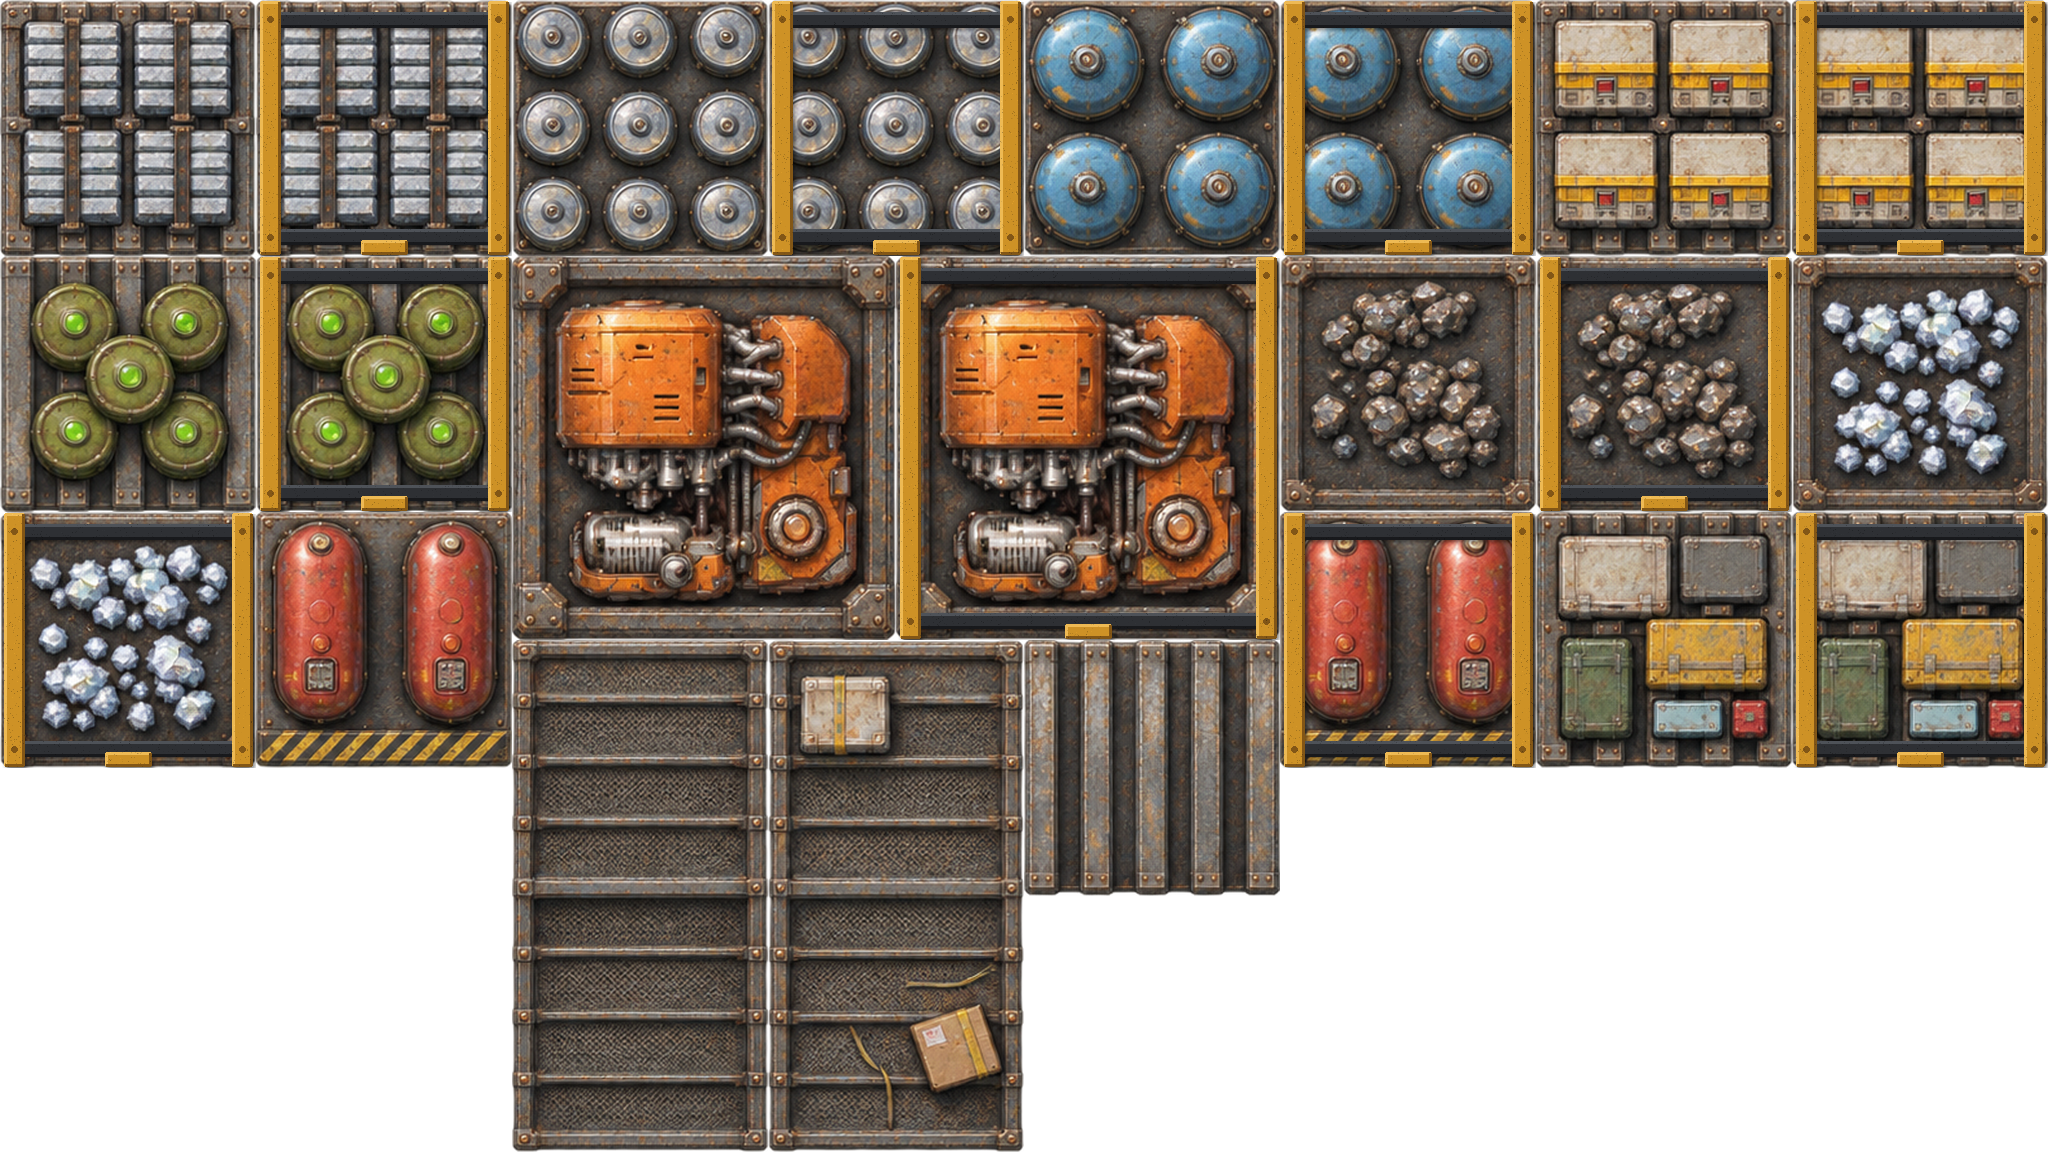
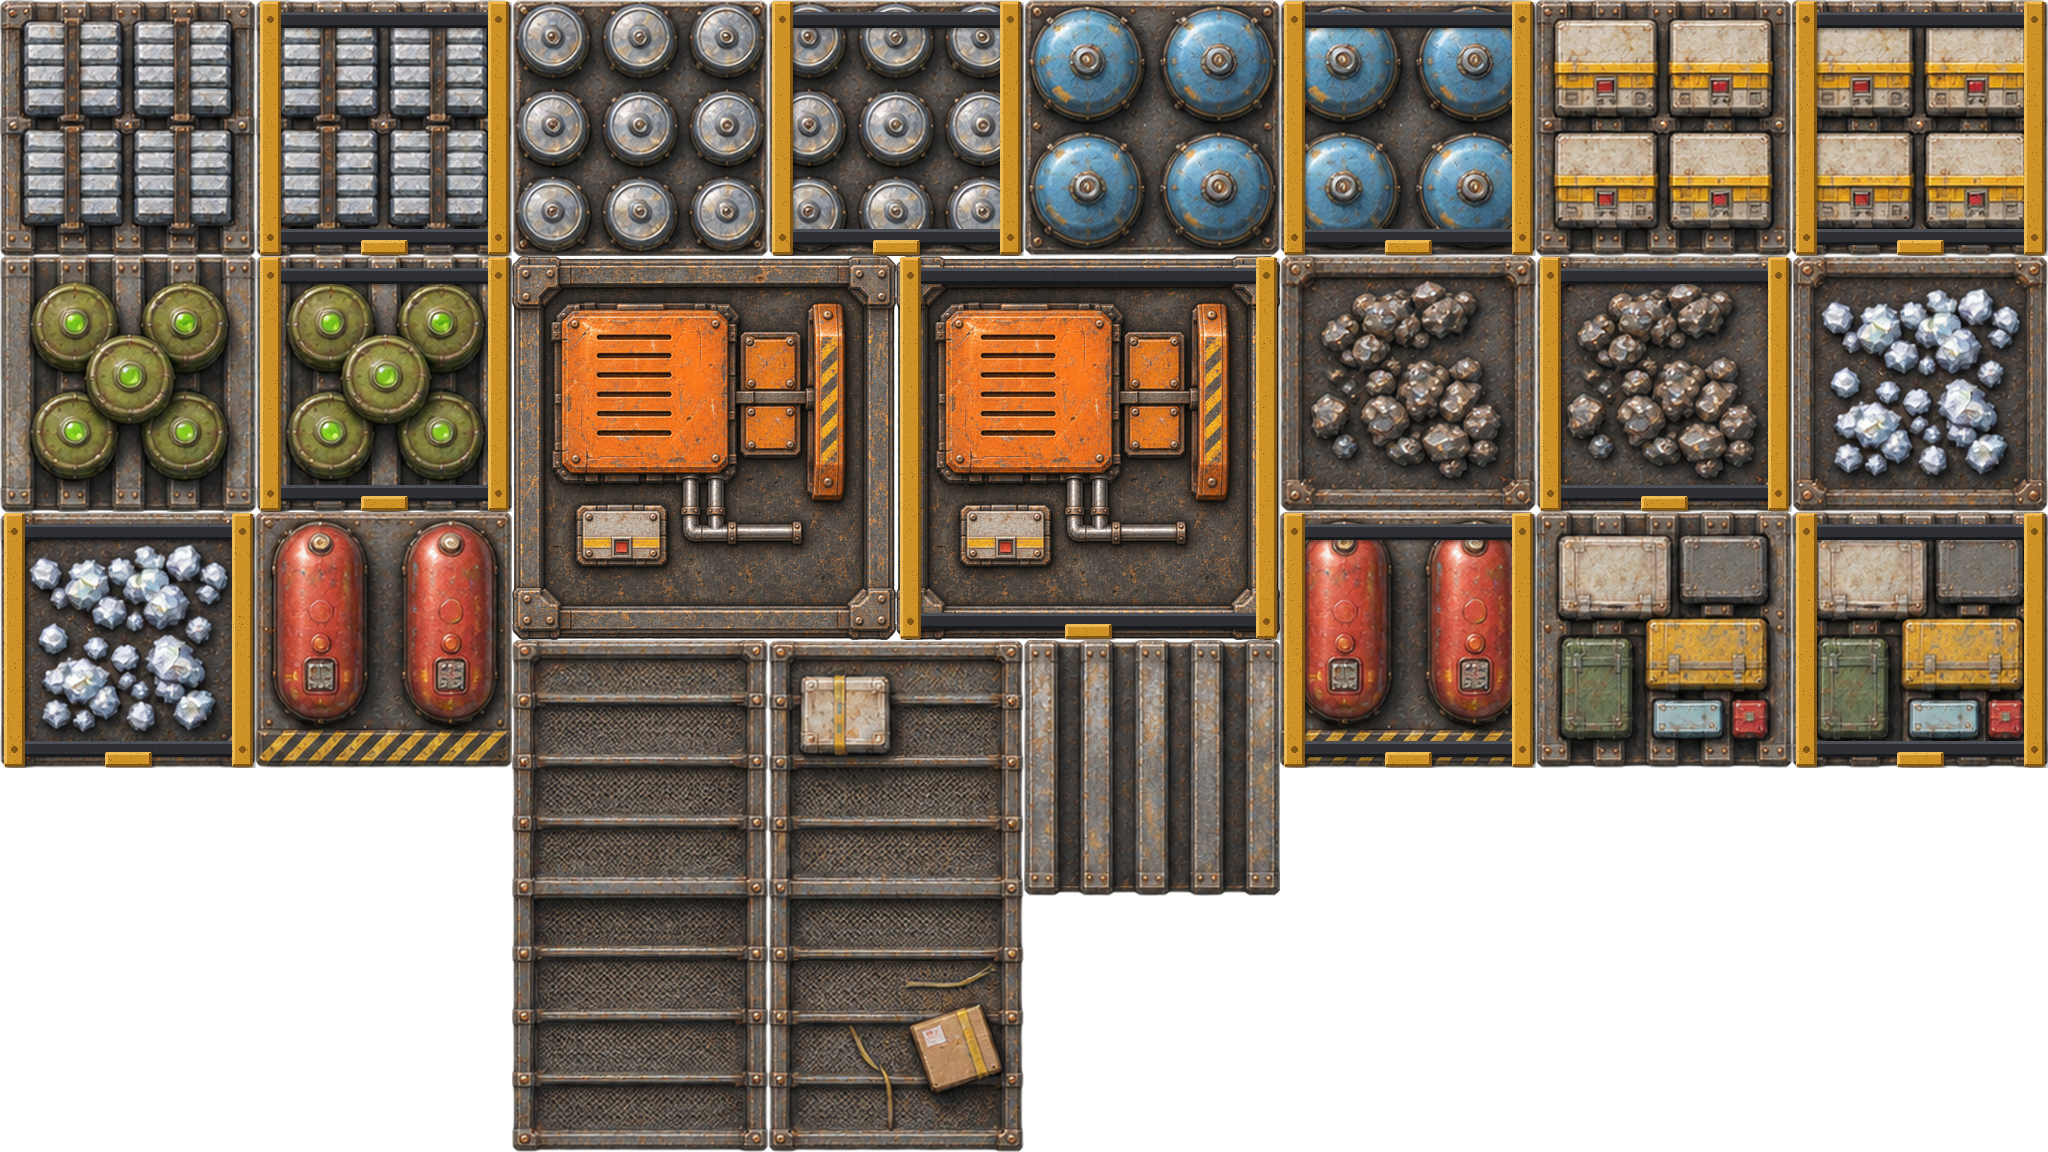
Ruins store heavy machinery redrawn as a plan view (owner: placed side ways): the first was the machine's side elevation laid on the ground. Now its tops from directly above, in the vanilla safety orange: the motor housing's vented lid, the gearbox, the flywheel edge-on in its guard on the drive sha

Changed region(s): [[0.25, 0.2188, 0.625, 0.5625]]

diff --git a/art-source/ruins-stores/make_guide.py b/art-source/ruins-stores/make_guide.py
@@ -111,6 +111,32 @@ def draw_piece(d, pid, x, y, w, h):
                       fill=BODY, outline=DARK)
 
 
+MACHINE_FRAME = (GUTTER, GUTTER, 3 * CELL, 3 * CELL)
+
+
+def machinery_guide():
+    """The heavy machinery redrawn on a guide of its own: the first drawing was the machine's side elevation laid on
+    the ground. Here every part is its top: the motor housing's lid and vents, the gearbox, the flywheel edge-on as a
+    narrow band in its guard, a control box, pipe runs, inside an open crate frame on a skid."""
+    x, y, w, h = MACHINE_FRAME
+    im = Image.new("RGBA", (w + 2 * GUTTER, h + 2 * GUTTER), (0, 0, 0, 0))
+    d = ImageDraw.Draw(im)
+    d.rectangle((x + 14, y + 14, x + w - 14, y + h - 14), fill=EDGE)                    # the skid
+    d.rectangle((x + 34, y + 34, x + w - 34, y + h - 34), outline=DARK, width=16)       # open crate frame
+    d.rectangle((x + 0.17 * w, y + 0.2 * h, x + 0.6 * w, y + 0.62 * h), fill=LIGHT, outline=DARK, width=5)  # motor
+    for k in range(6):                                                                # its lid's vent slots
+        vy = y + (0.26 + k * 0.05) * h
+        d.line((x + 0.24 * w, vy, x + 0.42 * w, vy), fill=EDGE, width=6)
+    d.rectangle((x + 0.62 * w, y + 0.26 * h, x + 0.77 * w, y + 0.56 * h), fill=BODY, outline=DARK, width=5)  # gearbox
+    d.rectangle((x + 0.79 * w, y + 0.18 * h, x + 0.85 * w, y + 0.66 * h), fill=DARK)   # flywheel, edge-on, in its guard
+    d.line((x + 0.6 * w, y + 0.41 * h, x + 0.79 * w, y + 0.41 * h), fill=DARK, width=10)  # the drive shaft
+    d.rectangle((x + 0.2 * w, y + 0.67 * h, x + 0.42 * w, y + 0.8 * h), fill=BODY, outline=DARK, width=5)  # control box
+    for px in (0.48, 0.54):                                                           # pipe runs
+        d.line((x + px * w, y + 0.62 * h, x + px * w, y + 0.74 * h, ), fill=LIGHT, width=10)
+        d.line((x + px * w, y + 0.74 * h, x + 0.76 * w, y + 0.74 * h), fill=LIGHT, width=10)
+    return im
+
+
 def draw():
     fr = frames()
     width = max(x + w for _, x, _, w, _ in fr) + GUTTER

diff --git a/art-source/ruins-stores/export.py b/art-source/ruins-stores/export.py
@@ -30,6 +30,11 @@ AMBER, AMBER_LIT, AMBER_DARK = (206, 146, 38), (238, 186, 84), (130, 86, 22)
 STEEL, STEEL_LIT, STEEL_DARK = (46, 48, 52), (78, 82, 88), (24, 25, 28)
 
 
+# Pieces cut from a raw of their own instead of the sheet: the first heavy machinery was its side elevation laid on
+# the ground (owner: "placed side ways"), redrawn as a plan view.
+REDRAWN = {"store-heavy-machinery": "ruins-stores-machinery.raw.png"}
+
+
 def register(raw, frames):
     """Scale and offset taking guide pixels to raw pixels: the frames' union onto the raw's drawn extent."""
     a = np.asarray(raw.getchannel("A")) > 64
@@ -50,7 +55,14 @@ def cut():
     half = make_guide.GUTTER / 2
     sizes = {e[0]: (e[1], e[2]) for e in stores_list.loads()}
     for pid, x, y, w, h in frames:
-        window = (round(ox + (x - half) * sx), round(oy + (y - half) * sy), round(ox + (x + w + half) * sx),
+        if pid in REDRAWN:
+            # Drawn again on a raw of its own (make_guide.machinery_guide): the whole raw is the piece.
+            piece = Image.open(HERE / "raw" / REDRAWN[pid]).convert("RGBA")
+            piece = piece.crop(piece.getchannel("A").point(lambda v: 255 if v > 64 else 0).getbbox())
+            cw, ch = sizes[pid]
+            yield pid, piece.resize((cw * CELL_PX, ch * CELL_PX), Image.LANCZOS)
+            continue
+        window =(round(ox + (x - half) * sx), round(oy + (y - half) * sy), round(ox + (x + w + half) * sx),
                   round(oy + (y + h + half) * sy))
         piece = raw.crop(window)
         piece = piece.crop(piece.getchannel("A").point(lambda v: 255 if v > 64 else 0).getbbox())
